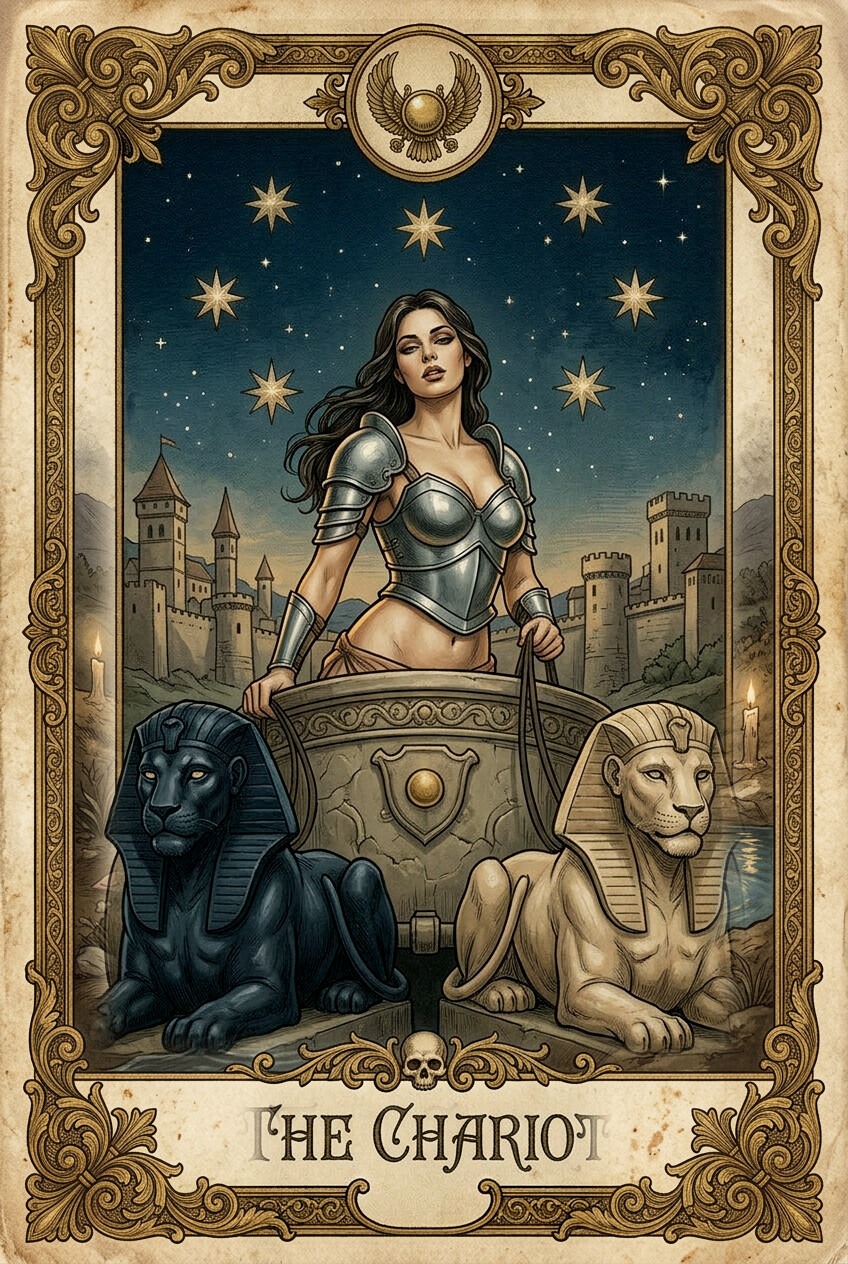
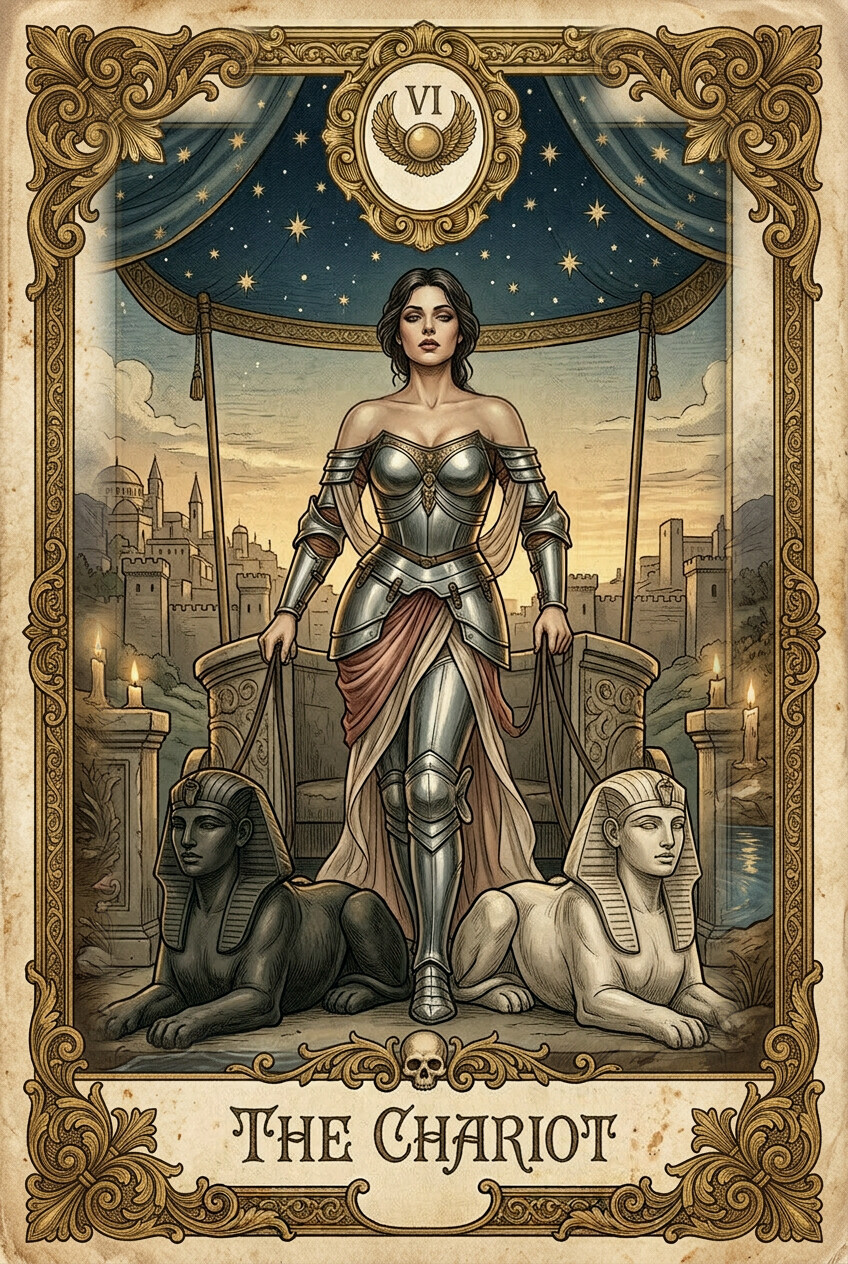
Recreate cards with fixed pipeline: wider title box (was clipping THE CHARIOT), new check_card.py, regenerate 6 cards

diff --git a/scripts/check_card.py b/scripts/check_card.py
@@ -1,0 +1,142 @@
+#!/usr/bin/env python3
+"""Đo độ khớp của một lá thô so với khung chuẩn, trước khi ghép.
+
+Báo cáo 3 con số cho mỗi ảnh:
+  frame  — RMSE dải khung trái (hoạ tiết viền + màu của khung)
+  band   — RMSE dải dưới, TRỪ vùng chữ tên (dải tên có hoạ tiếu khác khung chuẩn không?)
+  title  — toạ độ thực của chữ tên + có nằm gọn trong hộp tên (prompts/panel.json) không
+
+frame/band càng thấp càng tốt (< 0.02 = khớp, > 0.08 = lá này lệch khung, nên tạo lại).
+Dùng để chọn giữa nhiều bản (variant) của cùng một lá.
+
+  python3 scripts/check_card.py raw/01-magician.png raw/variants/01-magician-b.png
+  python3 scripts/check_card.py raw/           # tất cả ảnh thô
+"""
+import shutil
+import subprocess
+import sys
+from pathlib import Path
+
+sys.path.insert(0, str(Path(__file__).resolve().parent))
+from compose_card import CARDS, ROOT, channel_stats, frame_region, im, load_panel, run  # noqa: E402
+
+BAND = (60, 1050, 730, 200)   # vùng dải tên mở rộng, để thấy cả chữ dài
+
+
+def prep(src, dst, W, H):
+    cmd = im() + [str(src)]
+    wh = run(["identify", "-format", "%wx%h", str(src)]).stdout.strip()
+    if run(im() + [str(src), "-fuzz", "8%", "-trim", "-format", "%wx%h", "info:"]).stdout.strip() != wh:
+        cmd += ["-fuzz", "8%", "-trim", "+repage"]
+    cmd += ["-strip", "-colorspace", "sRGB", "-resize", f"{W}x{H}^",
+            "-gravity", "center", "-extent", f"{W}x{H}", str(dst)]
+    run(cmd)
+    return dst
+
+
+def colormatch(src, dst, base, region):
+    sb, ss = channel_stats(base, region), channel_stats(src, region)
+    cmd = im() + [str(src)]
+    for i, ((mb, sb_), (ms, ss_)) in enumerate(zip(sb, ss)):
+        a = max(0.5, min(2.0, sb_ / ss_ if ss_ > 1e-6 else 1.0))
+        b = mb - a * ms
+        cmd += ["-channel", "RGB"[i], "-function", "Polynomial", f"{a:.6f},{b:.6f}"]
+    cmd += ["+channel", str(dst)]
+    run(cmd)
+    return dst
+
+
+def rmse(a, b):
+    r = run(im() + [str(a), str(b), "-metric", "RMSE", "-compare",
+                    "-format", "%[distortion]", "info:"])
+    try:
+        return float(r.stdout.strip().split()[0])
+    except Exception:
+        return float("nan")
+
+
+def crop(src, dst, reg):
+    x, y, w, h = reg
+    run(im() + [str(src), "-crop", f"{w}x{h}+{x}+{y}", "+repage", str(dst)])
+    return dst
+
+
+def band_rmse_outside_title(src, base, tmp, title_box):
+    """RMSE dải dưới, bỏ qua hộp chữ tên (đo 2 mảnh trái/phải của hộp)."""
+    x, y, w, h = BAND
+    tx, ty, tw, th = title_box
+    parts = []
+    if tx > x:                       # mảnh trái hộp tên
+        parts.append((x, y, max(0, tx - x), h))
+    if tx + tw < x + w:              # mảnh phải hộp tên
+        parts.append((tx + tw, y, x + w - (tx + tw), h))
+    vals = []
+    for i, r in enumerate(parts):
+        if r[2] <= 0:
+            continue
+        crop(src, tmp / f"bs{i}.png", r)
+        crop(base, tmp / f"bb{i}.png", r)
+        vals.append(rmse(tmp / f"bs{i}.png", tmp / f"bb{i}.png"))
+    return max(vals) if vals else float("nan")
+
+
+def title_bbox(src, base, tmp, thresh="25%"):
+    crop(src, tmp / "ts.png", BAND)
+    crop(base, tmp / "tb.png", BAND)
+    run(im() + [str(tmp / "tb.png"), str(tmp / "ts.png"), "-compose", "Difference", "-composite",
+                "-colorspace", "Gray", "-threshold", thresh, "-trim", str(tmp / "td.png")])
+    out = run(["identify", "-format", "%wx%h %X %Y", str(tmp / "td.png")]).stdout.split()
+    if len(out) < 3:
+        return None
+    bw, bh = (int(v) for v in out[0].split("x"))
+    ox, oy = int(float(out[1])), int(float(out[2]))
+    return (BAND[0] + ox, BAND[1] + oy, bw, bh)
+
+
+def main():
+    args = [a for a in sys.argv[1:] if not a.startswith("-")]
+    if not args:
+        print(__doc__)
+        return 1
+    panel = load_panel()
+    W, H = panel["size"]
+    base = CARDS / "17-the-star.jpg"
+    tmp = Path("/tmp/_check")
+    tmp.mkdir(exist_ok=True)
+
+    files = []
+    for a in args:
+        p = Path(a)
+        if p.is_dir():
+            files += sorted(x for x in p.iterdir()
+                            if x.suffix.lower() in {".png", ".jpg", ".jpeg", ".webp"})
+        else:
+            files.append(p)
+
+    print(f"{'ảnh':<28}{'frame':>8}{'band':>8}   chữ tên (x,y,w,h)        khớp hộp?")
+    print("-" * 88)
+    results = []
+    for f in files:
+        prep(f, tmp / "s.png", W, H)
+        colormatch(tmp / "s.png", tmp / "m.png", base, frame_region(W, H, panel))
+        fr = rmse(*(crop(x, tmp / f"c{i}.png", frame_region(W, H, panel))
+                    for i, x in enumerate((tmp / "m.png", base))))
+        bd = band_rmse_outside_title(tmp / "m.png", base, tmp, panel["title"])
+        bb = title_bbox(tmp / "m.png", base, tmp)
+        tx, ty, tw, th = panel["title"]
+        fits = bb is not None and bb[0] >= tx and bb[0] + bb[2] <= tx + tw \
+            and bb[1] >= ty and bb[1] + bb[3] <= ty + th
+        print(f"{f.stem:<28}{fr:8.4f}{bd:8.4f}   "
+              f"{str(bb) if bb else '(không thấy)':<24}  {'OK' if fits else '← VƯỢT HỘP'}")
+        results.append((f, fr, bd, fits))
+    print("-" * 88)
+    print("khung khớp < 0.02 · dải tên khớp < 0.05 · chữ phải nằm gọn trong hộp")
+    ok = [r for r in results if r[3]]
+    if len(ok) > 1:
+        best = min(ok, key=lambda r: r[1] + r[2])
+        print(f"→ bản tốt nhất: {best[0]}  (frame {best[1]:.4f} + band {best[2]:.4f})")
+    return 0
+
+
+if __name__ == "__main__":
+    sys.exit(main())

diff --git a/prompts/00-MASTER-PROMPT.md b/prompts/00-MASTER-PROMPT.md
@@ -185,7 +185,10 @@ Vùng dán lưu trong `prompts/panel.json` (đo từ bản đồ khác biệt St
 |------|---------------------|
 | `panel` — cảnh giữa | 106, 120, 621, 933 |
 | `emblem` — huy hiệu trong medallion | 250, 10, 350, 115 |
-| `title` — chữ tên ở dải dưới | 262, 1090, 330, 145 |
+| `title` — chữ tên ở dải dưới | 190, 1080, 480, 165 |
+
+> Hộp `title` ban đầu là `262,1090,330,145` — quá hẹp: chữ `THE CHARIOT` bắt đầu ở **x=230** nên bị cụt chữ cái
+> đầu. Đã mở rộng sang **190..670**. Khi thêm lá mới, kiểm tra bằng `scripts/check_card.py`.
 
 ```bash
 python3 scripts/compose_card.py raw/          # ghép tất cả ảnh trong raw/ lên khung chuẩn
@@ -257,5 +260,6 @@ cân màu theo khung chuẩn, ghép lên khung chuẩn, chuẩn hoá 848×1264 v
 | `scripts/build_prompts.py` | `check` · `prompt` · `all` · `md` · `batch` |
 | `scripts/process_cards.py` | resize 848×1264 · `--trim` cắt viền · nén ≤ 800KB |
 | `scripts/compose_card.py` | ghép lên khung chuẩn + cân màu · `--check` đo độ lệch |
+| `scripts/check_card.py` | đo `frame` / `band` / toạ độ chữ tên của lá thô, chọn bản tốt nhất |
 | `scripts/build_gallery.py` | quét `cards/` → `deck.json` cho gallery |
 | `cards/card-blank.jpg` · `17-the-star.jpg` · `title-style.png` | 3 ảnh tham chiếu bắt buộc |
